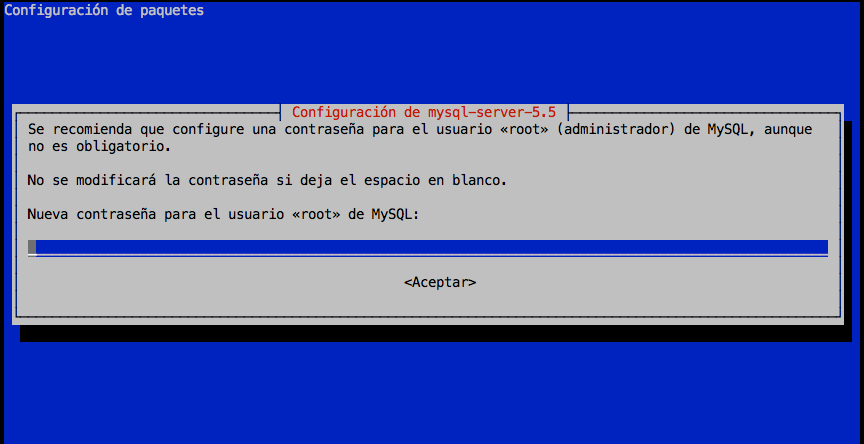
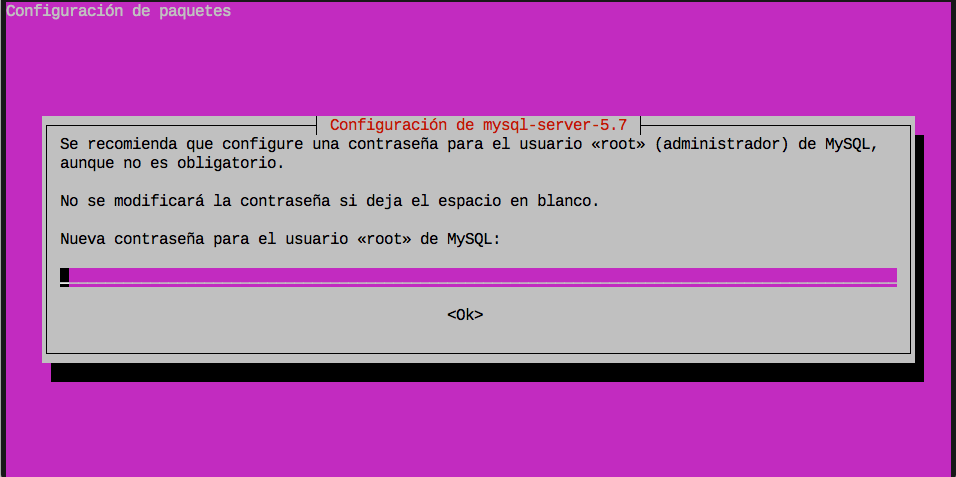
Updated MySQL contents

diff --git a/imw/UT1/notes/database/README.md b/imw/UT1/notes/database/README.md
@@ -2,39 +2,44 @@
 
 El sistema gestor de bases de datos que vamos a utilizar es **MySQL**.
 
+![MySQL Logo](img/mysql_logo.png) 
+
 ## Instalación
 
 Para la instalación vamos a usar el paquete preparado para ello:
 
 ```console
-root@hillvalley:~# apt-get install mysql-server
+sdelquin@cloud:~$ sudo apt-get install mysql-server
+[sudo] password for sdelquin:
 Leyendo lista de paquetes... Hecho
 Creando árbol de dependencias
 Leyendo la información de estado... Hecho
-Se instalarán los siguientes paquetes extras:
-  libaio1 libdbd-mysql-perl libdbi-perl libhtml-template-perl libmysqlclient18 libterm-readkey-perl
-  mysql-client-5.5 mysql-common mysql-server-5.5 mysql-server-core-5.5
+Se instalarán los siguientes paquetes adicionales:
+  libaio1 libcgi-fast-perl libcgi-pm-perl libevent-core-2.0-5 libfcgi-perl libhtml-template-perl
+  mysql-client-5.7 mysql-client-core-5.7 mysql-common mysql-server-5.7 mysql-server-core-5.7
 Paquetes sugeridos:
-  libclone-perl libmldbm-perl libnet-daemon-perl libsql-statement-perl libipc-sharedcache-perl tinyca
+  libipc-sharedcache-perl mailx tinyca
 Se instalarán los siguientes paquetes NUEVOS:
-  libaio1 libdbd-mysql-perl libdbi-perl libhtml-template-perl libmysqlclient18 libterm-readkey-perl
-  mysql-client-5.5 mysql-common mysql-server mysql-server-5.5 mysql-server-core-5.5
-0 actualizados, 11 nuevos se instalarán, 0 para eliminar y 0 no actualizados.
-Se necesita descargar 8.718 kB de archivos.
-Se utilizarán 96,3 MB de espacio de disco adicional después de esta operación.
+  libaio1 libcgi-fast-perl libcgi-pm-perl libevent-core-2.0-5 libfcgi-perl libhtml-template-perl
+  mysql-client-5.7 mysql-client-core-5.7 mysql-common mysql-server mysql-server-5.7
+  mysql-server-core-5.7
+0 actualizados, 12 nuevos se instalarán, 0 para eliminar y 22 no actualizados.
+Se necesita descargar 18,1 MB de archivos.
+Se utilizarán 161 MB de espacio de disco adicional después de esta operación.
 ¿Desea continuar? [S/n]
-Des:1 http://ftp.es.debian.org/debian/ jessie/main libaio1 amd64 0.3.110-1 [9.312 B]
-Des:2 http://ftp.es.debian.org/debian/ jessie/main libdbi-perl amd64 1.631-3+b1 [816 kB]
-Des:3 http://security.debian.org/ jessie/updates/main mysql-common all 5.5.50-0+deb8u1 [81,8 kB]
-Des:4 http://ftp.es.debian.org/debian/ jessie/main libterm-readkey-perl amd64 2.32-1+b1 [28,0 kB]
-Des:5 http://ftp.es.debian.org/debian/ jessie/main libhtml-template-perl all 2.95-1 [66,8 kB]
-Des:6 http://security.debian.org/ jessie/updates/main libmysqlclient18 amd64 5.5.50-0+deb8u1 [675 kB]
-Des:7 http://security.debian.org/ jessie/updates/main libdbd-mysql-perl amd64 4.028-2+deb8u1 [119 kB]
-Des:8 http://security.debian.org/ jessie/updates/main mysql-client-5.5 amd64 5.5.50-0+deb8u1 [1.659 kB]
-Des:9 http://security.debian.org/ jessie/updates/main mysql-server-core-5.5 amd64 5.5.50-0+deb8u1 [3.414 kB]
-Des:10 http://security.debian.org/ jessie/updates/main mysql-server-5.5 amd64 5.5.50-0+deb8u1 [1.769 kB]
-Des:11 http://security.debian.org/ jessie/updates/main mysql-server all 5.5.50-0+deb8u1 [80,0 kB]
-Descargados 8.718 kB en 1s (6.773 kB/s)
+Des:1 http://ams2.mirrors.digitalocean.com/ubuntu xenial-updates/main amd64 mysql-common all 5.7.19-0ubuntu0.16.04.1 [15,7 kB]
+Des:2 http://ams2.mirrors.digitalocean.com/ubuntu xenial/main amd64 libaio1 amd64 0.3.110-2 [6.356 B]
+Des:3 http://ams2.mirrors.digitalocean.com/ubuntu xenial-updates/main amd64 mysql-client-core-5.7 amd64 5.7.19-0ubuntu0.16.04.1 [6.020 kB]
+Des:4 http://ams2.mirrors.digitalocean.com/ubuntu xenial-updates/main amd64 mysql-client-5.7 amd64 5.7.19-0ubuntu0.16.04.1 [1.654 kB]
+Des:5 http://ams2.mirrors.digitalocean.com/ubuntu xenial-updates/main amd64 mysql-server-core-5.7 amd64 5.7.19-0ubuntu0.16.04.1 [7.588 kB]
+Des:6 http://ams2.mirrors.digitalocean.com/ubuntu xenial-updates/main amd64 libevent-core-2.0-5 amd64 2.0.21-stable-2ubuntu0.16.04.1 [70,6 kB]
+Des:7 http://ams2.mirrors.digitalocean.com/ubuntu xenial-updates/main amd64 mysql-server-5.7 amd64 5.7.19-0ubuntu0.16.04.1 [2.463 kB]
+Des:8 http://ams2.mirrors.digitalocean.com/ubuntu xenial/main amd64 libcgi-pm-perl all 4.26-1 [185 kB]
+Des:9 http://ams2.mirrors.digitalocean.com/ubuntu xenial/main amd64 libfcgi-perl amd64 0.77-1build1 [32,3 kB]
+Des:10 http://ams2.mirrors.digitalocean.com/ubuntu xenial/main amd64 libcgi-fast-perl all 1:2.10-1 [10,2 kB]
+Des:11 http://ams2.mirrors.digitalocean.com/ubuntu xenial/main amd64 libhtml-template-perl all 2.95-2 [60,4 kB]
+Des:12 http://ams2.mirrors.digitalocean.com/ubuntu xenial-updates/main amd64 mysql-server all 5.7.19-0ubuntu0.16.04.1 [10,8 kB]
+Descargados 18,1 MB en 21s (834 kB/s)
 Preconfigurando paquetes ...
 ```
 
@@ -49,99 +54,113 @@ Y a continuación repetir la clave:
 La instalación continua hasta terminar de configurar todos los paquetes:
 
 ```console
-Seleccionando el paquete libaio1:amd64 previamente no seleccionado.
-(Leyendo la base de datos ... 31339 ficheros o directorios instalados actualmente.)
-Preparando para desempaquetar .../libaio1_0.3.110-1_amd64.deb ...
-Desempaquetando libaio1:amd64 (0.3.110-1) ...
 Seleccionando el paquete mysql-common previamente no seleccionado.
-Preparando para desempaquetar .../mysql-common_5.5.50-0+deb8u1_all.deb ...
-Desempaquetando mysql-common (5.5.50-0+deb8u1) ...
-Seleccionando el paquete libmysqlclient18:amd64 previamente no seleccionado.
-Preparando para desempaquetar .../libmysqlclient18_5.5.50-0+deb8u1_amd64.deb ...
-Desempaquetando libmysqlclient18:amd64 (5.5.50-0+deb8u1) ...
-Seleccionando el paquete libdbi-perl previamente no seleccionado.
-Preparando para desempaquetar .../libdbi-perl_1.631-3+b1_amd64.deb ...
-Desempaquetando libdbi-perl (1.631-3+b1) ...
-Seleccionando el paquete libdbd-mysql-perl previamente no seleccionado.
-Preparando para desempaquetar .../libdbd-mysql-perl_4.028-2+deb8u1_amd64.deb ...
-Desempaquetando libdbd-mysql-perl (4.028-2+deb8u1) ...
-Seleccionando el paquete libterm-readkey-perl previamente no seleccionado.
-Preparando para desempaquetar .../libterm-readkey-perl_2.32-1+b1_amd64.deb ...
-Desempaquetando libterm-readkey-perl (2.32-1+b1) ...
-Seleccionando el paquete mysql-client-5.5 previamente no seleccionado.
-Preparando para desempaquetar .../mysql-client-5.5_5.5.50-0+deb8u1_amd64.deb ...
-Desempaquetando mysql-client-5.5 (5.5.50-0+deb8u1) ...
-Seleccionando el paquete mysql-server-core-5.5 previamente no seleccionado.
-Preparando para desempaquetar .../mysql-server-core-5.5_5.5.50-0+deb8u1_amd64.deb ...
-Desempaquetando mysql-server-core-5.5 (5.5.50-0+deb8u1) ...
-Procesando disparadores para man-db (2.7.0.2-5) ...
-Configurando mysql-common (5.5.50-0+deb8u1) ...
-Seleccionando el paquete mysql-server-5.5 previamente no seleccionado.
-(Leyendo la base de datos ... 31706 ficheros o directorios instalados actualmente.)
-Preparando para desempaquetar .../mysql-server-5.5_5.5.50-0+deb8u1_amd64.deb ...
-Desempaquetando mysql-server-5.5 (5.5.50-0+deb8u1) ...
+(Leyendo la base de datos ... 85821 ficheros o directorios instalados actualmente.)
+Preparando para desempaquetar .../mysql-common_5.7.19-0ubuntu0.16.04.1_all.deb ...
+Desempaquetando mysql-common (5.7.19-0ubuntu0.16.04.1) ...
+Seleccionando el paquete libaio1:amd64 previamente no seleccionado.
+Preparando para desempaquetar .../libaio1_0.3.110-2_amd64.deb ...
+Desempaquetando libaio1:amd64 (0.3.110-2) ...
+Seleccionando el paquete mysql-client-core-5.7 previamente no seleccionado.
+Preparando para desempaquetar .../mysql-client-core-5.7_5.7.19-0ubuntu0.16.04.1_amd64.deb ...
+Desempaquetando mysql-client-core-5.7 (5.7.19-0ubuntu0.16.04.1) ...
+Seleccionando el paquete mysql-client-5.7 previamente no seleccionado.
+Preparando para desempaquetar .../mysql-client-5.7_5.7.19-0ubuntu0.16.04.1_amd64.deb ...
+Desempaquetando mysql-client-5.7 (5.7.19-0ubuntu0.16.04.1) ...
+Seleccionando el paquete mysql-server-core-5.7 previamente no seleccionado.
+Preparando para desempaquetar .../mysql-server-core-5.7_5.7.19-0ubuntu0.16.04.1_amd64.deb ...
+Desempaquetando mysql-server-core-5.7 (5.7.19-0ubuntu0.16.04.1) ...
+Seleccionando el paquete libevent-core-2.0-5:amd64 previamente no seleccionado.
+Preparando para desempaquetar .../libevent-core-2.0-5_2.0.21-stable-2ubuntu0.16.04.1_amd64.deb ...
+Desempaquetando libevent-core-2.0-5:amd64 (2.0.21-stable-2ubuntu0.16.04.1) ...
+Procesando disparadores para libc-bin (2.23-0ubuntu9) ...
+Procesando disparadores para man-db (2.7.5-1) ...
+Configurando mysql-common (5.7.19-0ubuntu0.16.04.1) ...
+update-alternatives: utilizando /etc/mysql/my.cnf.fallback para proveer /etc/mysql/my.cnf (my.cnf) en modo automático
+Seleccionando el paquete mysql-server-5.7 previamente no seleccionado.
+(Leyendo la base de datos ... 85989 ficheros o directorios instalados actualmente.)
+Preparando para desempaquetar .../mysql-server-5.7_5.7.19-0ubuntu0.16.04.1_amd64.deb ...
+Desempaquetando mysql-server-5.7 (5.7.19-0ubuntu0.16.04.1) ...
+Seleccionando el paquete libcgi-pm-perl previamente no seleccionado.
+Preparando para desempaquetar .../libcgi-pm-perl_4.26-1_all.deb ...
+Desempaquetando libcgi-pm-perl (4.26-1) ...
+Seleccionando el paquete libfcgi-perl previamente no seleccionado.
+Preparando para desempaquetar .../libfcgi-perl_0.77-1build1_amd64.deb ...
+Desempaquetando libfcgi-perl (0.77-1build1) ...
+Seleccionando el paquete libcgi-fast-perl previamente no seleccionado.
+Preparando para desempaquetar .../libcgi-fast-perl_1%3a2.10-1_all.deb ...
+Desempaquetando libcgi-fast-perl (1:2.10-1) ...
 Seleccionando el paquete libhtml-template-perl previamente no seleccionado.
-Preparando para desempaquetar .../libhtml-template-perl_2.95-1_all.deb ...
-Desempaquetando libhtml-template-perl (2.95-1) ...
+Preparando para desempaquetar .../libhtml-template-perl_2.95-2_all.deb ...
+Desempaquetando libhtml-template-perl (2.95-2) ...
 Seleccionando el paquete mysql-server previamente no seleccionado.
-Preparando para desempaquetar .../mysql-server_5.5.50-0+deb8u1_all.deb ...
-Desempaquetando mysql-server (5.5.50-0+deb8u1) ...
-Procesando disparadores para systemd (215-17+deb8u4) ...
-Procesando disparadores para man-db (2.7.0.2-5) ...
-Configurando libaio1:amd64 (0.3.110-1) ...
-Configurando libmysqlclient18:amd64 (5.5.50-0+deb8u1) ...
-Configurando libdbi-perl (1.631-3+b1) ...
-Configurando libdbd-mysql-perl (4.028-2+deb8u1) ...
-Configurando libterm-readkey-perl (2.32-1+b1) ...
-Configurando mysql-client-5.5 (5.5.50-0+deb8u1) ...
-Configurando mysql-server-core-5.5 (5.5.50-0+deb8u1) ...
-Configurando mysql-server-5.5 (5.5.50-0+deb8u1) ...
-160827  1:39:59 [Warning] Using unique option prefix key_buffer instead of key_buffer_size is deprecated and will be removed in a future release. Please use the full name instead.
-160827  1:39:59 [Note] /usr/sbin/mysqld (mysqld 5.5.50-0+deb8u1) starting as process 2813 ...
-Configurando libhtml-template-perl (2.95-1) ...
-Configurando mysql-server (5.5.50-0+deb8u1) ...
-Procesando disparadores para libc-bin (2.19-18+deb8u4) ...
-Procesando disparadores para systemd (215-17+deb8u4) ...
-root@hillvalley:~#
+Preparando para desempaquetar .../mysql-server_5.7.19-0ubuntu0.16.04.1_all.deb ...
+Desempaquetando mysql-server (5.7.19-0ubuntu0.16.04.1) ...
+Procesando disparadores para man-db (2.7.5-1) ...
+Procesando disparadores para ureadahead (0.100.0-19) ...
+Procesando disparadores para systemd (229-4ubuntu19) ...
+Configurando libaio1:amd64 (0.3.110-2) ...
+Configurando mysql-client-core-5.7 (5.7.19-0ubuntu0.16.04.1) ...
+Configurando mysql-client-5.7 (5.7.19-0ubuntu0.16.04.1) ...
+Configurando mysql-server-core-5.7 (5.7.19-0ubuntu0.16.04.1) ...
+Configurando libevent-core-2.0-5:amd64 (2.0.21-stable-2ubuntu0.16.04.1) ...
+Configurando mysql-server-5.7 (5.7.19-0ubuntu0.16.04.1) ...
+update-alternatives: utilizando /etc/mysql/mysql.cnf para proveer /etc/mysql/my.cnf (my.cnf) en modo automático
+Renaming removed key_buffer and myisam-recover options (if present)
+Configurando libcgi-pm-perl (4.26-1) ...
+Configurando libfcgi-perl (0.77-1build1) ...
+Configurando libcgi-fast-perl (1:2.10-1) ...
+Configurando libhtml-template-perl (2.95-2) ...
+Configurando mysql-server (5.7.19-0ubuntu0.16.04.1) ...
+Procesando disparadores para libc-bin (2.23-0ubuntu9) ...
+Procesando disparadores para systemd (229-4ubuntu19) ...
+Procesando disparadores para ureadahead (0.100.0-19) ...
+sdelquin@cloud:~$
 ```
 
 Una vez finalizada la instalación, podemos comprobar que el servicio está corriendo:
 
 ```console
-root@hillvalley:~# /etc/init.d/mysql status
-● mysql.service - LSB: Start and stop the mysql database server daemon
-   Loaded: loaded (/etc/init.d/mysql)
-   Active: active (running) since sáb 2016-08-27 01:40:10 WEST; 5min ago
+sdelquin@cloud:~$ sudo systemctl status mysql
+● mysql.service - MySQL Community Server
+   Loaded: loaded (/lib/systemd/system/mysql.service; enabled; vendor preset: enabled)
+   Active: active (running) since dom 2017-10-01 12:29:25 UTC; 3min 33s ago
+ Main PID: 14742 (mysqld)
    CGroup: /system.slice/mysql.service
-           ├─2970 /bin/sh /usr/bin/mysqld_safe
-           └─3317 /usr/sbin/mysqld --basedir=/usr --datadir=/var/lib/mysql --plugin-dir=/usr/lib/mysql/p...
+           └─14742 /usr/sbin/mysqld
 
-ago 27 01:40:10 hillvalley /etc/mysql/debian-start[3378]: mysql.help_keyword                          ...OK
-ago 27 01:40:10 hillvalley /etc/mysql/debian-start[3378]: mysql.help_relation                         ...OK
-ago 27 01:40:10 hillvalley /etc/mysql/debian-start[3378]: mysql.help_topic                            ...OK
-ago 27 01:40:10 hillvalley /etc/mysql/debian-start[3378]: mysql.host                                  ...OK
-ago 27 01:40:10 hillvalley /etc/mysql/debian-start[3378]: mysql.ndb_binlog_index                      ...OK
-ago 27 01:40:10 hillvalley /etc/mysql/debian-start[3378]: mysql.plugin                                ...OK
-ago 27 01:40:10 hillvalley /etc/mysql/debian-start[3378]: mysql.proc                                  ...OK
-ago 27 01:40:10 hillvalley /etc/mysql/debian-start[3378]: mysql.procs_priv                            ...OK
-ago 27 01:40:10 hillvalley /etc/mysql/debian-start[3428]: Checking for insecure root accounts.
-ago 27 01:40:10 hillvalley /etc/mysql/debian-start[3433]: Triggering myisam-recover for all MyISAM tables
-Hint: Some lines were ellipsized, use -l to show in full.
-root@hillvalley:~#
+oct 01 12:29:24 cloud systemd[1]: Starting MySQL Community Server...
+oct 01 12:29:25 cloud systemd[1]: Started MySQL Community Server.
+sdelquin@cloud:~$
 ```
+
+### Uso de memoria
+
+*MySQL* es un proceso (o conjunto de procesos) que consume bastante memoria RAM. Para ver el consumo hacemos:
+
+```console
+sdelquin@cloud:~$ ps aux | grep mysql
+mysql    14742  0.1 28.0 1115748 140388 ?      Ssl  12:29   0:00 /usr/sbin/mysqld
+sdelquin 14864  0.0  0.1  14160   968 pts/0    S+   12:40   0:00 grep --color=auto mysql
+sdelquin@cloud:~$
+```
+
+Nos podemos fijar que está usando 140388 bytes, es decir, unos **137MB**.
+
+Existe una web que permite tener una aproximación de la memoria que va a usar el servicio *MySQL* en función de ciertos parámetros de configuración: [MySQL Calculator](http://www.mysqlcalculator.com/).
 
 ## Acceso al gestor de bases de datos
 
 El comando que nos permite gestionar las bases de datos **MySQL** es, aunque parezca increíble `mysql` 😉 . Nótese que el parámetro `-u` indica el usuario y `-p` indica que se va a acceder a través de contraseña.
 
 ```console
-sdelquin@hillvalley:~$ mysql -u root -p
+sdelquin@cloud:~$ mysql -u root -p
 Enter password:
 Welcome to the MySQL monitor.  Commands end with ; or \g.
-Your MySQL connection id is 44
-Server version: 5.5.50-0+deb8u1 (Debian)
+Your MySQL connection id is 5
+Server version: 5.7.19-0ubuntu0.16.04.1 (Ubuntu)
 
-Copyright (c) 2000, 2016, Oracle and/or its affiliates. All rights reserved.
+Copyright (c) 2000, 2017, Oracle and/or its affiliates. All rights reserved.
 
 Oracle is a registered trademark of Oracle Corporation and/or its
 affiliates. Other names may be trademarks of their respective
@@ -183,7 +202,7 @@ Lo que queremos, es que todas las variables de codificación estén fijadas a `u
 El fichero de configuración de **MySQL** se encuentra en: `/etc/mysql/my.cnf`, pero se pueden incluir ficheros de configuración en la ruta: `/etc/mysql/conf.d/`
 
 ```console
-root@hillvalley:~# vi /etc/mysql/conf.d/utf8mb4.cnf
+sdelquin@cloud:~$ sudo vi /etc/mysql/conf.d/utf8mb4.cnf
 ```
 
 >Contenido
@@ -201,9 +220,8 @@ collation-server = utf8mb4_unicode_ci
 Reiniciamos el servidor:
 
 ```console
-root@hillvalley:~# /etc/init.d/mysql restart
-[ ok ] Restarting mysql (via systemctl): mysql.service.
-root@hillvalley:~#
+sdelquin@cloud:~$ sudo systemctl restart nginx
+sdelquin@cloud:~$
 ```
 
 Accedemos de nuevo al intérprete SQL de **MySQL** para comprobar de nuevo las variables:
@@ -236,74 +254,71 @@ mysql> Bye
 La instalación por defecto de *MySQL* deja una base de datos de test y algunas cuentas extrañas de usuario, que pueden ser origen de problemas de seguridad. Vamos a intentar solucionar estos problemas usando el comando `mysql_secure_installation`:
 
 ```console
-root@hillvalley:~# mysql_secure_installation
+sdelquin@cloud:~$ sudo mysql_secure_installation
 
+Securing the MySQL server deployment.
 
+Enter password for user root:
 
+VALIDATE PASSWORD PLUGIN can be used to test passwords
+and improve security. It checks the strength of password
+and allows the users to set only those passwords which are
+secure enough. Would you like to setup VALIDATE PASSWORD plugin?
 
-NOTE: RUNNING ALL PARTS OF THIS SCRIPT IS RECOMMENDED FOR ALL MySQL
-      SERVERS IN PRODUCTION USE!  PLEASE READ EACH STEP CAREFULLY!
+Press y|Y for Yes, any other key for No: y
 
+There are three levels of password validation policy:
 
-In order to log into MySQL to secure it, we'll need the current
-password for the root user.  If you've just installed MySQL, and
-you haven't set the root password yet, the password will be blank,
-so you should just press enter here.
+LOW    Length >= 8
+MEDIUM Length >= 8, numeric, mixed case, and special characters
+STRONG Length >= 8, numeric, mixed case, special characters and dictionary                  file
 
-Enter current password for root (enter for none):
-OK, successfully used password, moving on...
+Please enter 0 = LOW, 1 = MEDIUM and 2 = STRONG: 1
+Using existing password for root.
 
-Setting the root password ensures that nobody can log into the MySQL
-root user without the proper authorisation.
+Estimated strength of the password: 50
+Change the password for root ? ((Press y|Y for Yes, any other key for No) : n
 
-You already have a root password set, so you can safely answer 'n'.
-
-Change the root password? [Y/n] n
  ... skipping.
+By default, a MySQL installation has an anonymous user,
+allowing anyone to log into MySQL without having to have
+a user account created for them. This is intended only for
+testing, and to make the installation go a bit smoother.
+You should remove them before moving into a production
+environment.
 
-By default, a MySQL installation has an anonymous user, allowing anyone
-to log into MySQL without having to have a user account created for
-them.  This is intended only for testing, and to make the installation
-go a bit smoother.  You should remove them before moving into a
-production environment.
+Remove anonymous users? (Press y|Y for Yes, any other key for No) : y
+Success.
 
-Remove anonymous users? [Y/n] Y
- ... Success!
 
-Normally, root should only be allowed to connect from 'localhost'.  This
-ensures that someone cannot guess at the root password from the network.
+Normally, root should only be allowed to connect from
+'localhost'. This ensures that someone cannot guess at
+the root password from the network.
 
-Disallow root login remotely? [Y/n] Y
- ... Success!
+Disallow root login remotely? (Press y|Y for Yes, any other key for No) : y
+Success.
 
-By default, MySQL comes with a database named 'test' that anyone can
-access.  This is also intended only for testing, and should be removed
-before moving into a production environment.
+By default, MySQL comes with a database named 'test' that
+anyone can access. This is also intended only for testing,
+and should be removed before moving into a production
+environment.
 
-Remove test database and access to it? [Y/n] Y
+
+Remove test database and access to it? (Press y|Y for Yes, any other key for No) : y
  - Dropping test database...
-ERROR 1008 (HY000) at line 1: Can't drop database 'test'; database doesn't exist
- ... Failed!  Not critical, keep moving...
+Success.
+
  - Removing privileges on test database...
- ... Success!
+Success.
 
-Reloading the privilege tables will ensure that all changes made so far
-will take effect immediately.
+Reloading the privilege tables will ensure that all changes
+made so far will take effect immediately.
 
-Reload privilege tables now? [Y/n] Y
- ... Success!
+Reload privilege tables now? (Press y|Y for Yes, any other key for No) : y
+Success.
 
-Cleaning up...
-
-
-
-All done!  If you've completed all of the above steps, your MySQL
-installation should now be secure.
-
-Thanks for using MySQL!
-
-
-root@hillvalley:~#
+All done!
+sdelquin@cloud:~$
 ```
 
 * [x] Instalación segura completada.
@@ -318,5 +333,3 @@ Con la "segurización" de las contraseñas, se obliga a cumplir con los siguient
   + Letras en minúsculas.
   + Dígitos.
   + Caracteres especiales ("!", "@", "$", etc.).
-
-
